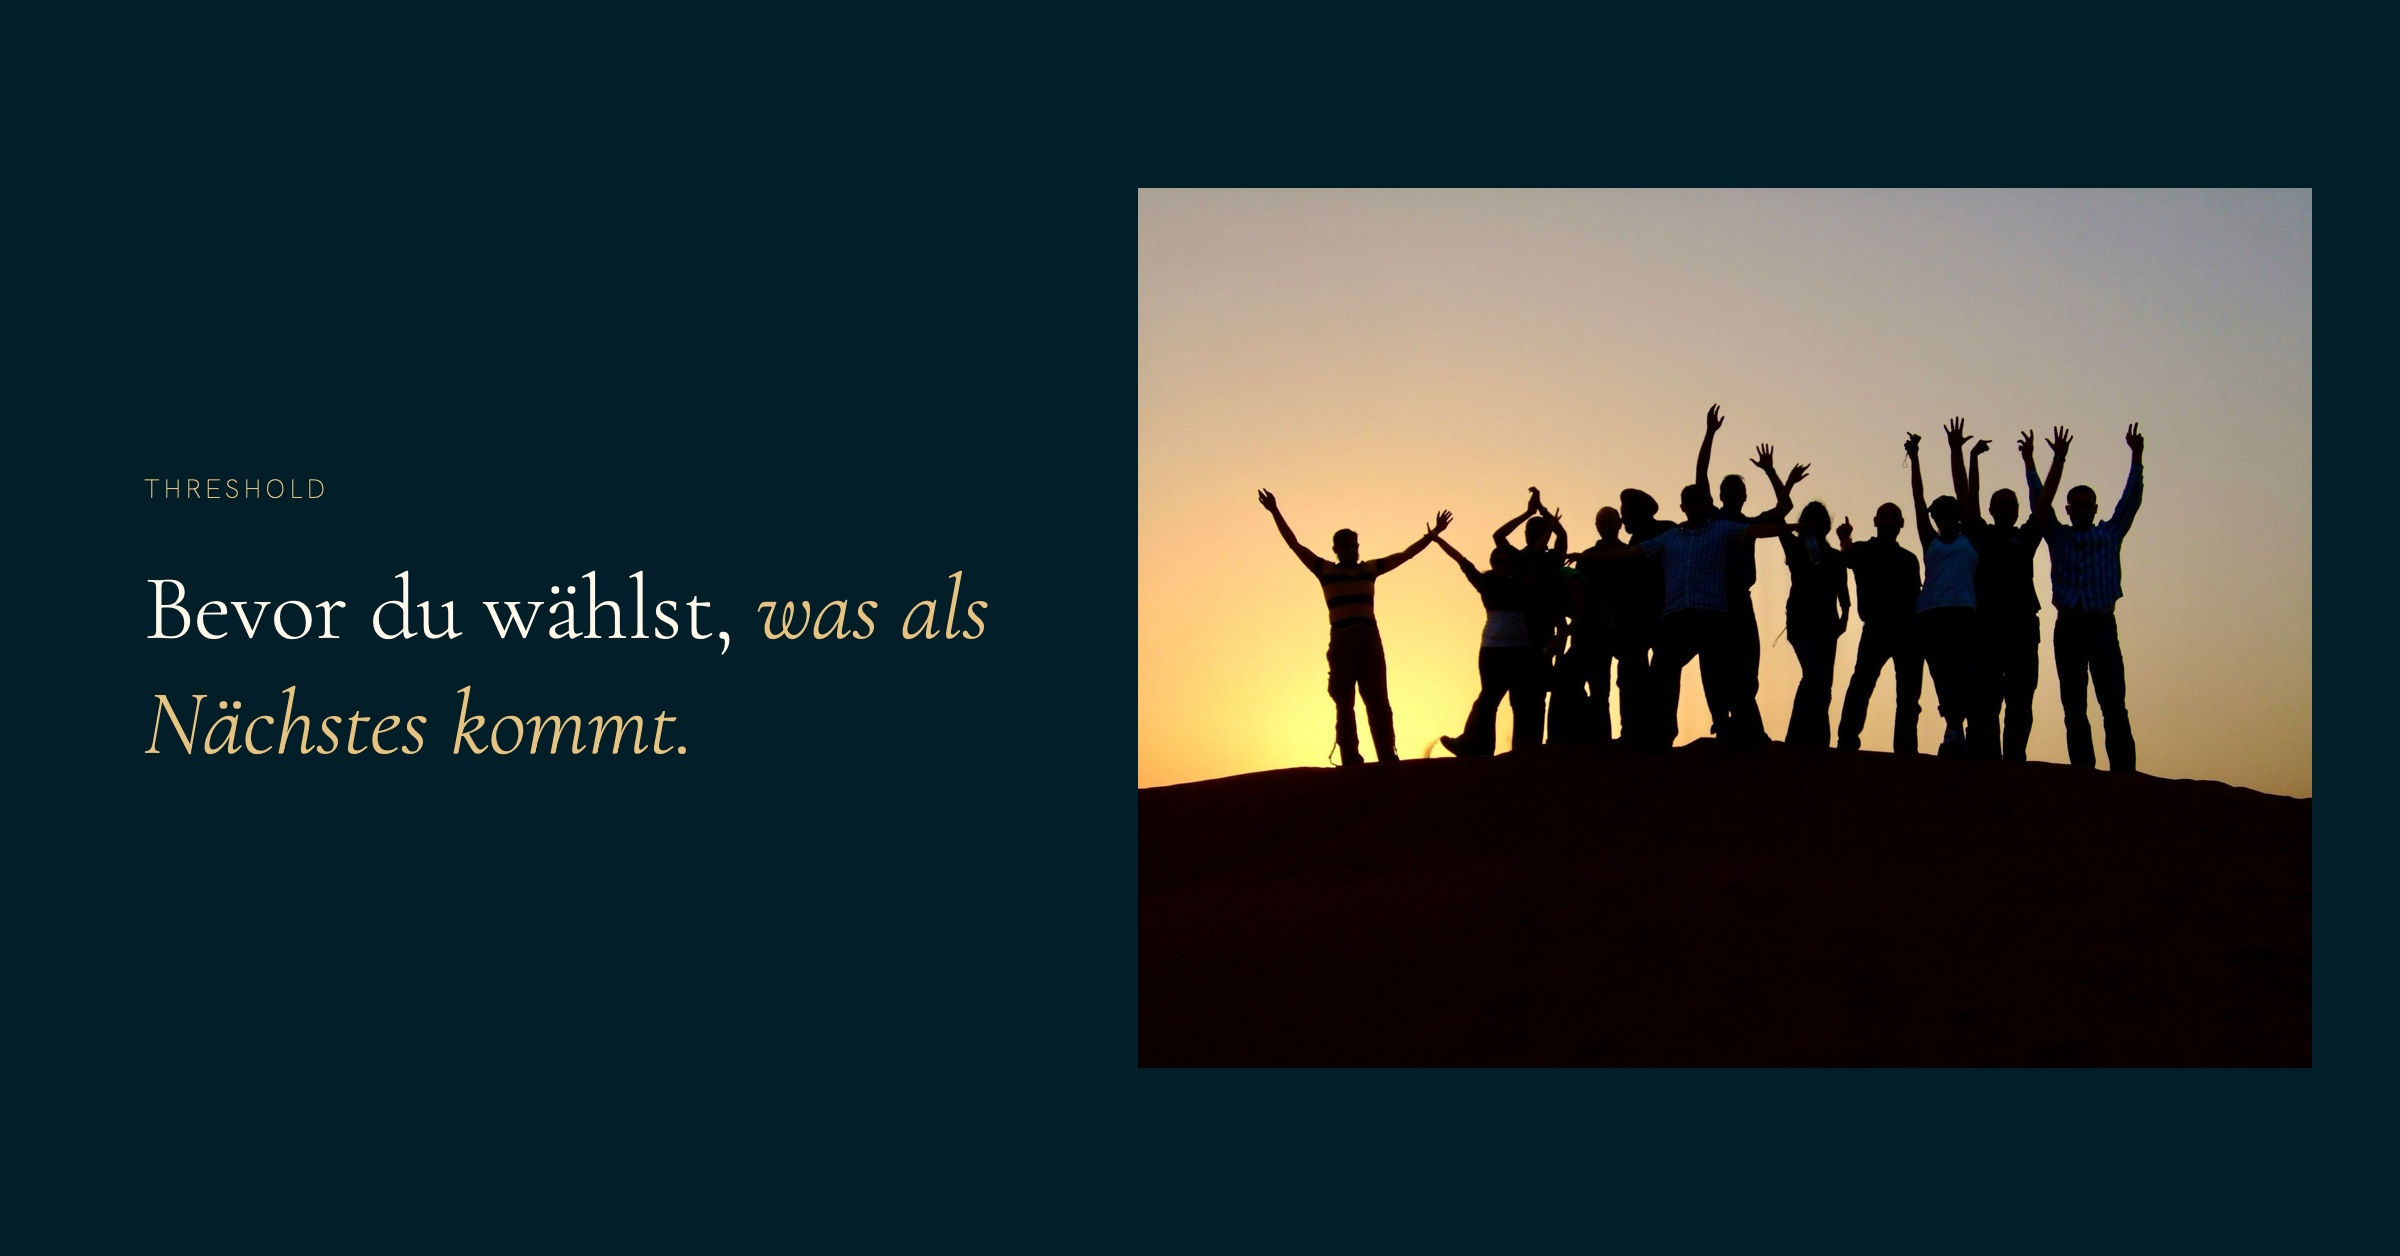
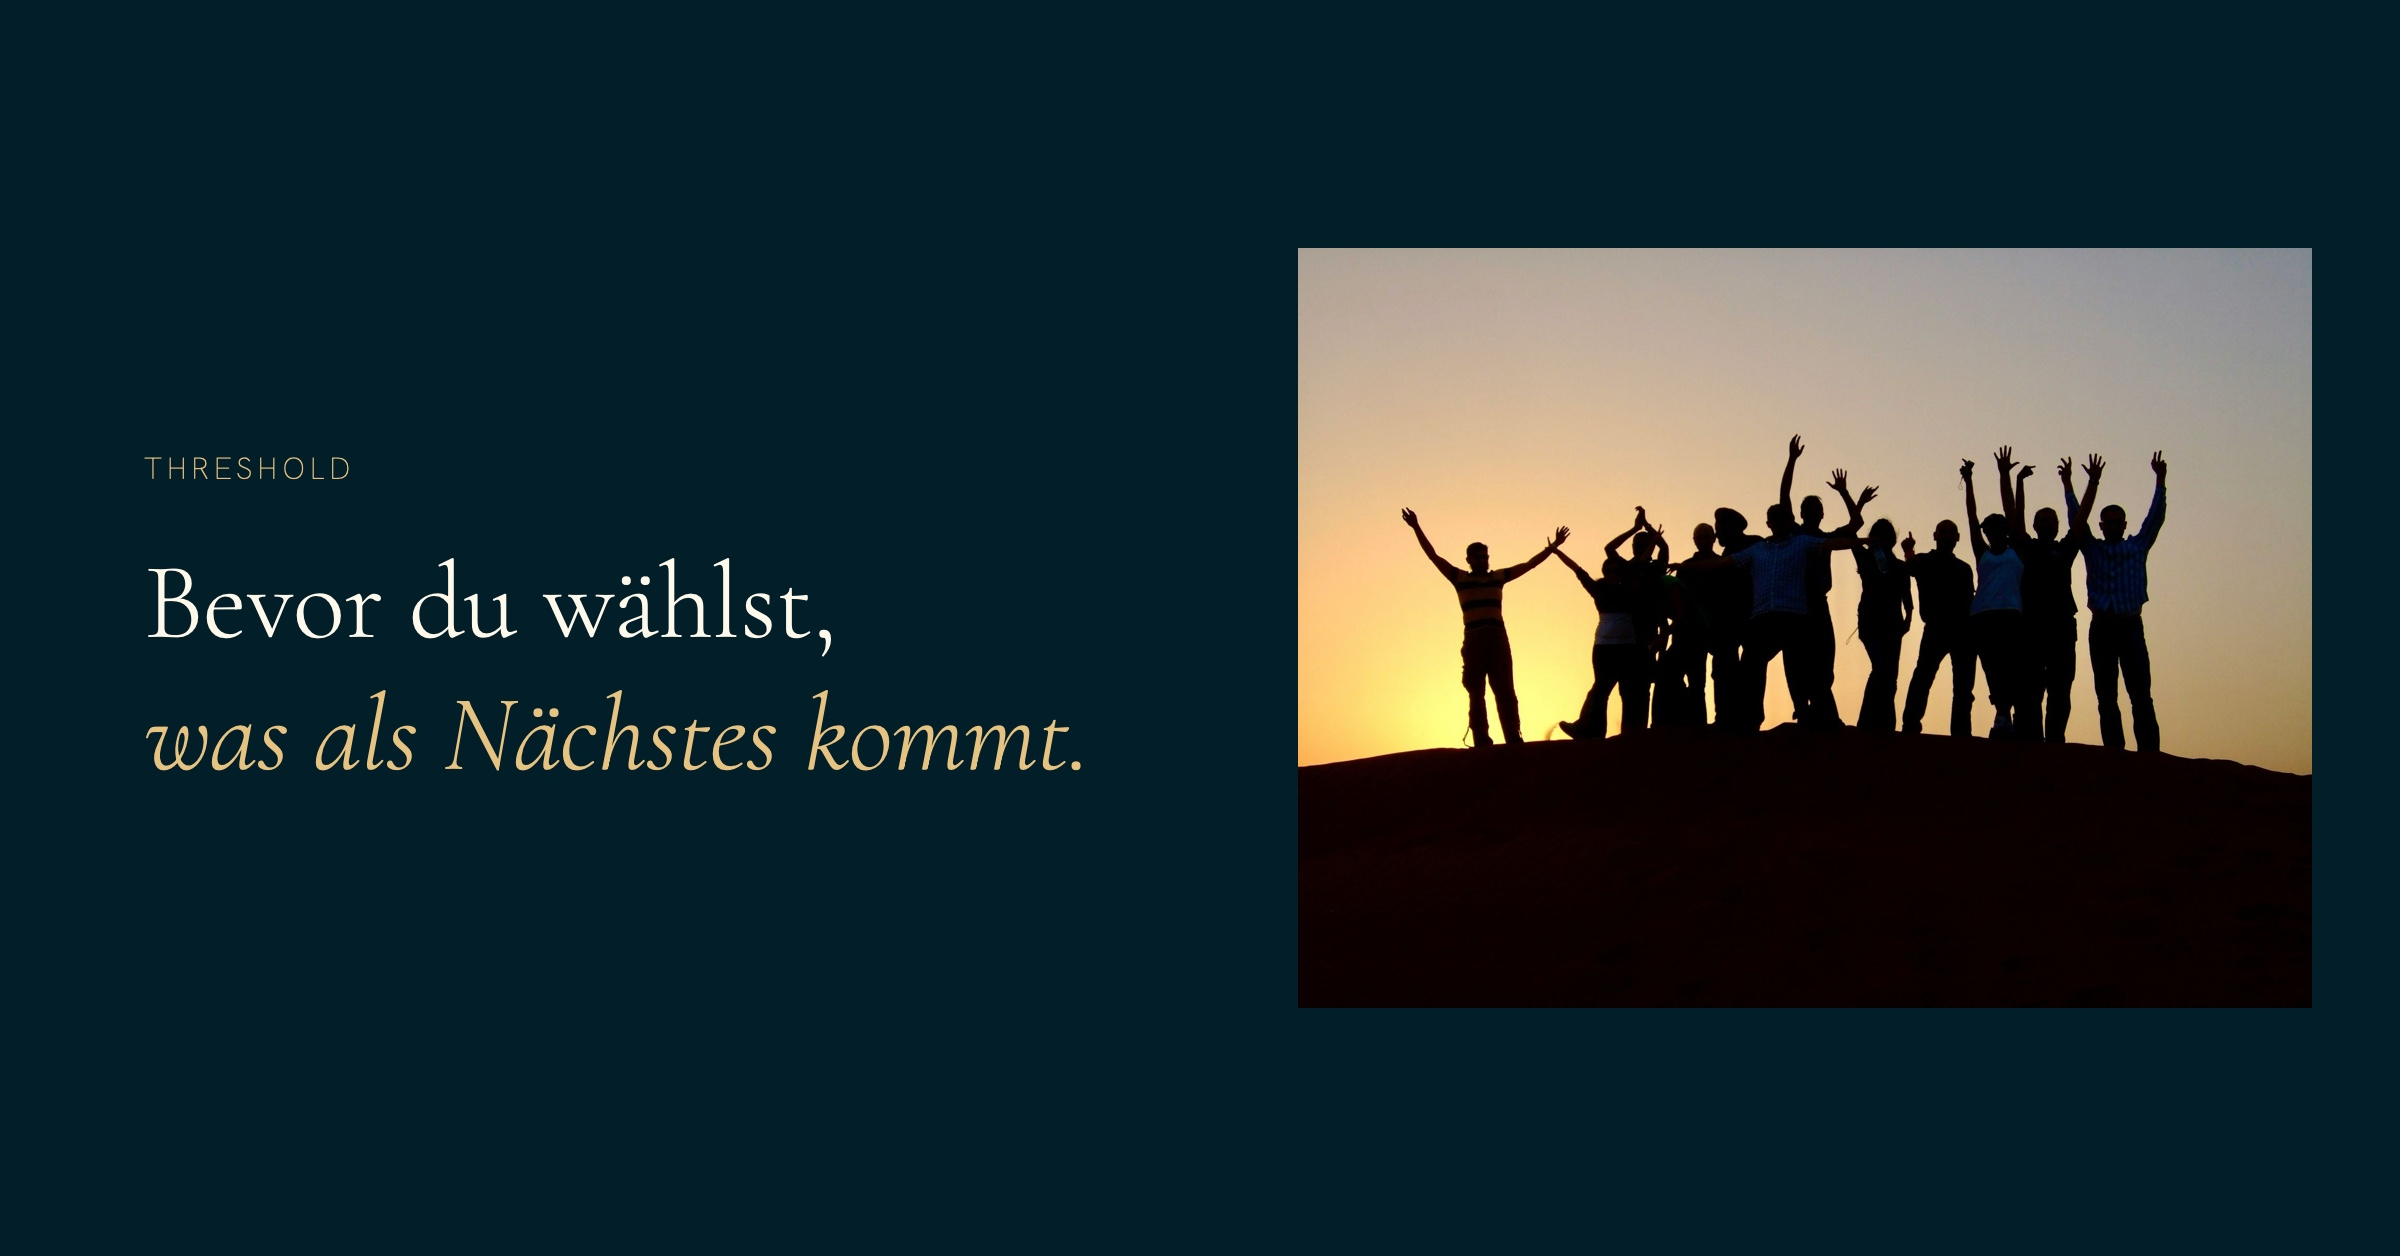
assets: Threshold-Karten besser lesbar, Partnerseiten auf dieselbe Karte gezogen
Die deutsche Karte war trotz doppelter Aufloesung schwer zu lesen. Die
Ursache lag nicht an der Aufloesung, sondern am Satz: die deutsche
Kopfzeile ist laenger als die englische, mehr als die Haelfte davon stand
in der goldenen Kursive, und der automatische Umbruch trennte mitten in
der Wortgruppe.

Geaendert: Kopfzeile von 46 auf 54 Punkt, Umbruch von Hand hinter das
Komma, damit die Goldkursive eine eigene Zeile bekommt, Bildhoehe von 440
auf 380, damit die Textspalte von 453 auf 533 Punkt waechst. Der Renderer
meldet beim Bauen Zeilenzahl und breiteste Zeile, damit ein ungewollter
Umbruch auffaellt statt unbemerkt zu bleiben.

Die beiden Partnerseiten trugen noch den einfachen Zuschnitt in einfacher
Aufloesung und sind auf dieselbe gebaute Karte gezogen. Wortlaut ist der
Seitentitel, nichts hinzuerfunden.

diff --git a/tools/og-karte.swift b/tools/og-karte.swift
@@ -42,7 +42,7 @@ let qurl = URL(fileURLWithPath: QUELLE) as CFURL
 guard let src = CGImageSourceCreateWithURL(qurl, nil),
       let bild = CGImageSourceCreateImageAtIndex(src, 0, nil) else { fatalError("Bild") }
 let SEITEN = CGFloat(bild.width) / CGFloat(bild.height)
-let BILD_H: CGFloat = (VARIANTE.hasPrefix("T")) ? 440 : 540
+let BILD_H: CGFloat = (VARIANTE.hasPrefix("T") || VARIANTE.hasPrefix("P")) ? 380 : 540
 let BILD_B: CGFloat = (BILD_H * SEITEN).rounded()
 let BILD_X: CGFloat = B - RAND - BILD_B
 let BILD_Y: CGFloat = ((H - BILD_H) / 2).rounded()
@@ -105,6 +105,11 @@ func zeichne(_ ctx: CGContext, _ s: NSAttributedString, y_oben: CGFloat, h: CGFl
   let fs = CTFramesetterCreateWithAttributedString(s)
   let pfad = CGPath(rect: CGRect(x: TEXT_X, y: y_oben - h, width: TEXT_B, height: h), transform: nil)
   let frame = CTFramesetterCreateFrame(fs, CFRangeMake(0, 0), pfad, nil)
+  if let zeilen = CTFrameGetLines(frame) as? [CTLine] {
+    let breiten = zeilen.map { CTLineGetTypographicBounds($0, nil, nil, nil) }
+    FileHandle.standardError.write(("  Zeilen: \(zeilen.count), breiteste "
+      + String(format: "%.0f", breiten.max() ?? 0) + " von \(Int(TEXT_B))\n").data(using: .utf8)!)
+  }
   CTFrameDraw(frame, ctx)
 }
 
@@ -132,12 +137,20 @@ case "A":
              Stueck(text: ".", font: corI(64), color: GOLD, tracking: 0)], zeilenhoehe: 1.0), 26),
     (absatz([Stueck(text: claimA, font: han(21), color: SAND, tracking: 0)], zeilenhoehe: 1.5), 0)]
 case "T1":
-  let kopf1 = SPRACHE == "en" ? "Before you choose " : "Bevor du wählst, "
+  let kopf1 = SPRACHE == "en" ? "Before you choose\n" : "Bevor du wählst,\n"
   let kopf2 = SPRACHE == "en" ? "what comes next." : "was als Nächstes kommt."
   bloecke = [
-    (absatz([Stueck(text: "THRESHOLD", font: hanM(13), color: GOLD, tracking: 2.4)], zeilenhoehe: 1.0), 24),
-    (absatz([Stueck(text: kopf1, font: cor(46), color: SAND, tracking: 0),
-             Stueck(text: kopf2, font: corI(46), color: GOLD, tracking: 0)], zeilenhoehe: 1.24), 0)]
+    (absatz([Stueck(text: "THRESHOLD", font: hanM(15), color: GOLD, tracking: 2.6)], zeilenhoehe: 1.0), 26),
+    (absatz([Stueck(text: kopf1, font: cor(54), color: SAND, tracking: 0),
+             Stueck(text: kopf2, font: corI(54), color: GOLD, tracking: 0)], zeilenhoehe: 1.22), 0)]
+case "P1":
+  // Partnerseiten. Wortlaut ist der Seitentitel, nichts hinzuerfunden.
+  let p1 = SPRACHE == "en" ? "Fund " : "Plätze "
+  let p2 = SPRACHE == "en" ? "a place." : "finanzieren."
+  bloecke = [
+    (absatz([Stueck(text: "THRESHOLD", font: hanM(15), color: GOLD, tracking: 2.6)], zeilenhoehe: 1.0), 26),
+    (absatz([Stueck(text: p1, font: cor(54), color: SAND, tracking: 0),
+             Stueck(text: p2, font: corI(54), color: GOLD, tracking: 0)], zeilenhoehe: 1.22), 0)]
 case "T2":
   bloecke = []
 case "B":

diff --git a/threshold/partner/index.html b/threshold/partner/index.html
@@ -14,13 +14,13 @@
 <meta property="og:url" content="https://davidliebnau.com/threshold/partner/" />
 <meta property="og:title" content="Plätze finanzieren · The Threshold Program" />
 <meta property="og:description" content="Für Eltern, Stiftungen und Unternehmen, die jungen Erwachsenen einen Platz im Threshold Program ermöglichen." />
-<meta property="og:image" content="https://davidliebnau.com/assets/og-image-threshold-partner.jpg" />
-<meta property="og:image:width" content="1200" />
-<meta property="og:image:height" content="628" />
-<meta property="og:image:alt" content="Eine Gruppe junger Menschen als Silhouette auf einer Anhöhe im Sonnenuntergang, die Arme erhoben." />
+<meta property="og:image" content="https://davidliebnau.com/assets/og-partner-de.jpg" />
+<meta property="og:image:width" content="2400" />
+<meta property="og:image:height" content="1256" />
+<meta property="og:image:alt" content="Auf dunkelblauem Grund die Zeile: Plätze finanzieren. Daneben eine Gruppe junger Menschen als Silhouette im Sonnenuntergang, die Arme erhoben." />
 <meta property="og:locale" content="de_DE" />
 <meta name="twitter:card" content="summary_large_image" />
-<meta name="twitter:image" content="https://davidliebnau.com/assets/og-image-threshold-partner.jpg" />
+<meta name="twitter:image" content="https://davidliebnau.com/assets/og-partner-de.jpg" />
 <meta name="twitter:title" content="Plätze finanzieren · The Threshold Program" />
 <meta name="twitter:description" content="Für Eltern, Stiftungen und Unternehmen, die jungen Erwachsenen einen Platz im Threshold Program ermöglichen." />
 

diff --git a/threshold/partner/en/index.html b/threshold/partner/en/index.html
@@ -14,13 +14,13 @@
 <meta property="og:url" content="https://davidliebnau.com/threshold/partner/en/" />
 <meta property="og:title" content="Fund a place · The Threshold Program" />
 <meta property="og:description" content="For parents, foundations and companies who want to make a place in The Threshold Program possible for a young adult." />
-<meta property="og:image" content="https://davidliebnau.com/assets/og-image-threshold-partner.jpg" />
-<meta property="og:image:width" content="1200" />
-<meta property="og:image:height" content="628" />
-<meta property="og:image:alt" content="A group of young people silhouetted on a rise at sunset, arms raised." />
+<meta property="og:image" content="https://davidliebnau.com/assets/og-partner-en.jpg" />
+<meta property="og:image:width" content="2400" />
+<meta property="og:image:height" content="1256" />
+<meta property="og:image:alt" content="On a dark blue background the line: Fund a place. Alongside it a group of young people silhouetted at sunset, arms raised." />
 <meta property="og:locale" content="en_GB" />
 <meta name="twitter:card" content="summary_large_image" />
-<meta name="twitter:image" content="https://davidliebnau.com/assets/og-image-threshold-partner.jpg" />
+<meta name="twitter:image" content="https://davidliebnau.com/assets/og-partner-en.jpg" />
 <meta name="twitter:title" content="Fund a place · The Threshold Program" />
 <meta name="twitter:description" content="For parents, foundations and companies who want to make a place in The Threshold Program possible for a young adult." />
 

diff --git a/BACKLOG.md b/BACKLOG.md
@@ -100,11 +100,29 @@ Porträt kommt aus 1400 × 1400, das Threshold-Bild aus 1920 × 1440, beide
 werden weiterhin verkleinert. Der Renderer nimmt den Faktor als siebtes
 Argument, live wird mit 2 gebaut.
 
-**Nicht mit umgestellt** sind `assets/og-image.jpg` (beide Startseiten und
-die Podcastseite) und `assets/og-image-threshold-partner.jpg`. Beide liegen
-weiter in einfacher Auflösung und wirken auf Retina entsprechend weicher.
-Für die Partnerseiten wäre eine gebaute Karte in doppelter Auflösung machbar;
-für die Startseiten fehlt ein größeres Original als 1200 × 630.
+**Zweiter Nachtrag, 04.09.2026: Schriftgröße auf den Threshold-Karten.**
+David meldete, dass die deutsche Karte trotz doppelter Auflösung schwer zu
+lesen ist. Ursache war nicht die Auflösung, sondern der Satz: die deutsche
+Kopfzeile ist mit 40 Zeichen länger als die englische mit 34, davon standen
+58 Prozent in der goldenen Kursive gegen 47 Prozent auf Englisch, und der
+automatische Umbruch trennte mitten in der Wortgruppe („was als / Nächstes").
+Geändert: Kopfzeile von 46 auf 54 Punkt, Umbruch von Hand hinter das Komma,
+sodass die Goldkursive eine eigene Zeile bekommt, Bildhöhe von 440 auf 380,
+damit die Textspalte von 453 auf 533 Punkt wächst. Der Renderer meldet jetzt
+Zeilenzahl und breiteste Zeile, damit ein ungewollter Umbruch auffällt.
+
+Zum Farbwert, weil er beim Prüfen mit anfiel: Luminous Sand auf Midnight Blue
+steht bei 17,27:1, Soft Gold bei 9,74:1. Beide weit über der Anforderung, die
+Goldkursive ist also nicht das Problem gewesen.
+
+**Die Partnerseiten sind am selben Tag nachgezogen**, ebenfalls gebaute Karten
+in doppelter Auflösung: `assets/og-partner-de.jpg` und `-en.jpg`, gebaut aus
+`assets/threshold-teaser.jpg`. Der frühere Zuschnitt
+`assets/og-image-threshold-partner.jpg` ist entfallen.
+
+**Nicht umgestellt** ist allein `assets/og-image.jpg` auf beiden Startseiten
+und der Podcastseite. Es liegt weiter in 1200 × 630 und wirkt auf Retina
+weicher. Ein größeres Original ist im Repository nicht vorhanden.
 
 Erledigt für die vier Money Pages, am 02.09.2026. Für `/fuehren/` am
 03.09.2026 ersetzt: statt des Zuschnitts steht dort jetzt eine gebaute
